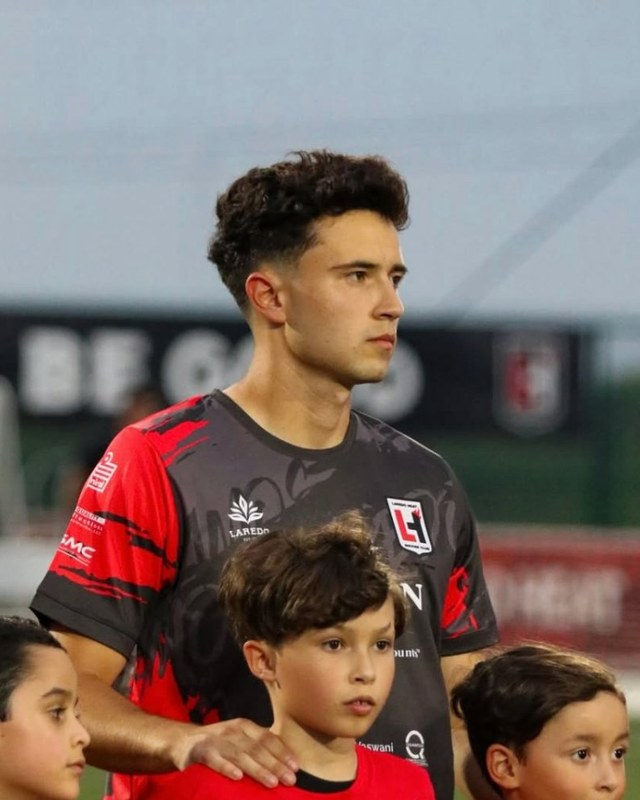
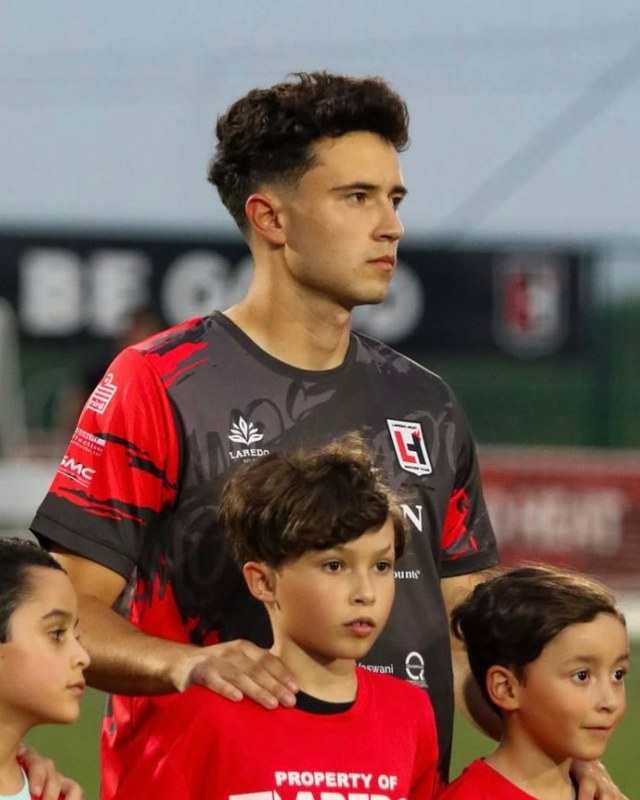
Add files via upload

diff --git a/index.html b/index.html
@@ -685,7 +685,42 @@
     display: grid;
     grid-template-columns: repeat(4, 1fr);
     gap: 24px;
-    margin-bottom: 80px;
+    margin-bottom: 64px;
+  }
+  .field-photo-banner {
+    position: relative;
+    width: 100%;
+    aspect-ratio: 16/6;
+    border-radius: 4px;
+    overflow: hidden;
+    margin-bottom: 64px;
+    background: url('https://images.unsplash.com/photo-1556056504-5468227aa6c5?w=1920&auto=format&fit=crop') center/cover;
+  }
+  .field-photo-banner::after {
+    content: '';
+    position: absolute;
+    inset: 0;
+    background: linear-gradient(to right, rgba(10,10,10,0.85) 0%, rgba(10,10,10,0.2) 50%, rgba(10,10,10,0.6) 100%);
+  }
+  .field-photo-banner-text {
+    position: absolute;
+    left: 40px;
+    bottom: 32px;
+    z-index: 1;
+  }
+  .field-photo-banner-text .eyebrow {
+    color: var(--gold);
+    font-size: 11px;
+    font-weight: 700;
+    text-transform: uppercase;
+    letter-spacing: 2px;
+    margin-bottom: 8px;
+  }
+  .field-photo-banner-text h3 {
+    font-family: 'Bebas Neue', sans-serif;
+    font-size: clamp(28px, 4vw, 48px);
+    line-height: 1;
+    color: var(--white);
   }
   .feature {
     text-align: left;
@@ -1166,6 +1201,8 @@
     .footer-grid { grid-template-columns: 1fr; }
     .footer-bottom { flex-direction: column; gap: 12px; text-align: center; }
     .founders { grid-template-columns: 1fr; }
+    .field-photo-banner { aspect-ratio: 4/5; }
+    .field-photo-banner-text { left: 24px; bottom: 24px; right: 24px; }
     .floating-call { display: flex; }
     .booking-header, .square-widget-wrap, .booking-fallback { padding: 24px 20px; }
     .booking-fallback { flex-direction: column; align-items: flex-start; gap: 16px; }
@@ -1355,6 +1392,13 @@
       </div>
     </div>
 
+    <div class="field-photo-banner">
+      <div class="field-photo-banner-text">
+        <div class="eyebrow">Alafaya, Orlando</div>
+        <h3>Lit, Lined, Ready When You Are.</h3>
+      </div>
+    </div>
+
     <div class="field-cards">
       <a href="https://app.squareup.com/appointments/buyer/widget/7zkci3rwvkdrgm/L05YM2T4V07CH" target="_blank" class="field-card">
         <div class="field-card-header">
@@ -1427,7 +1471,7 @@
       <div class="step">
         <div class="step-num">03</div>
         <h4>Join the Club</h4>
-        <p>Continue with a monthly membership, 3 sessions a week included. Cancel anytime, we earn the next month.</p>
+        <p>Continue with a monthly membership, 3 sessions a week included. Cancel anytime.</p>
       </div>
       <div class="step">
         <div class="step-num">04</div>
